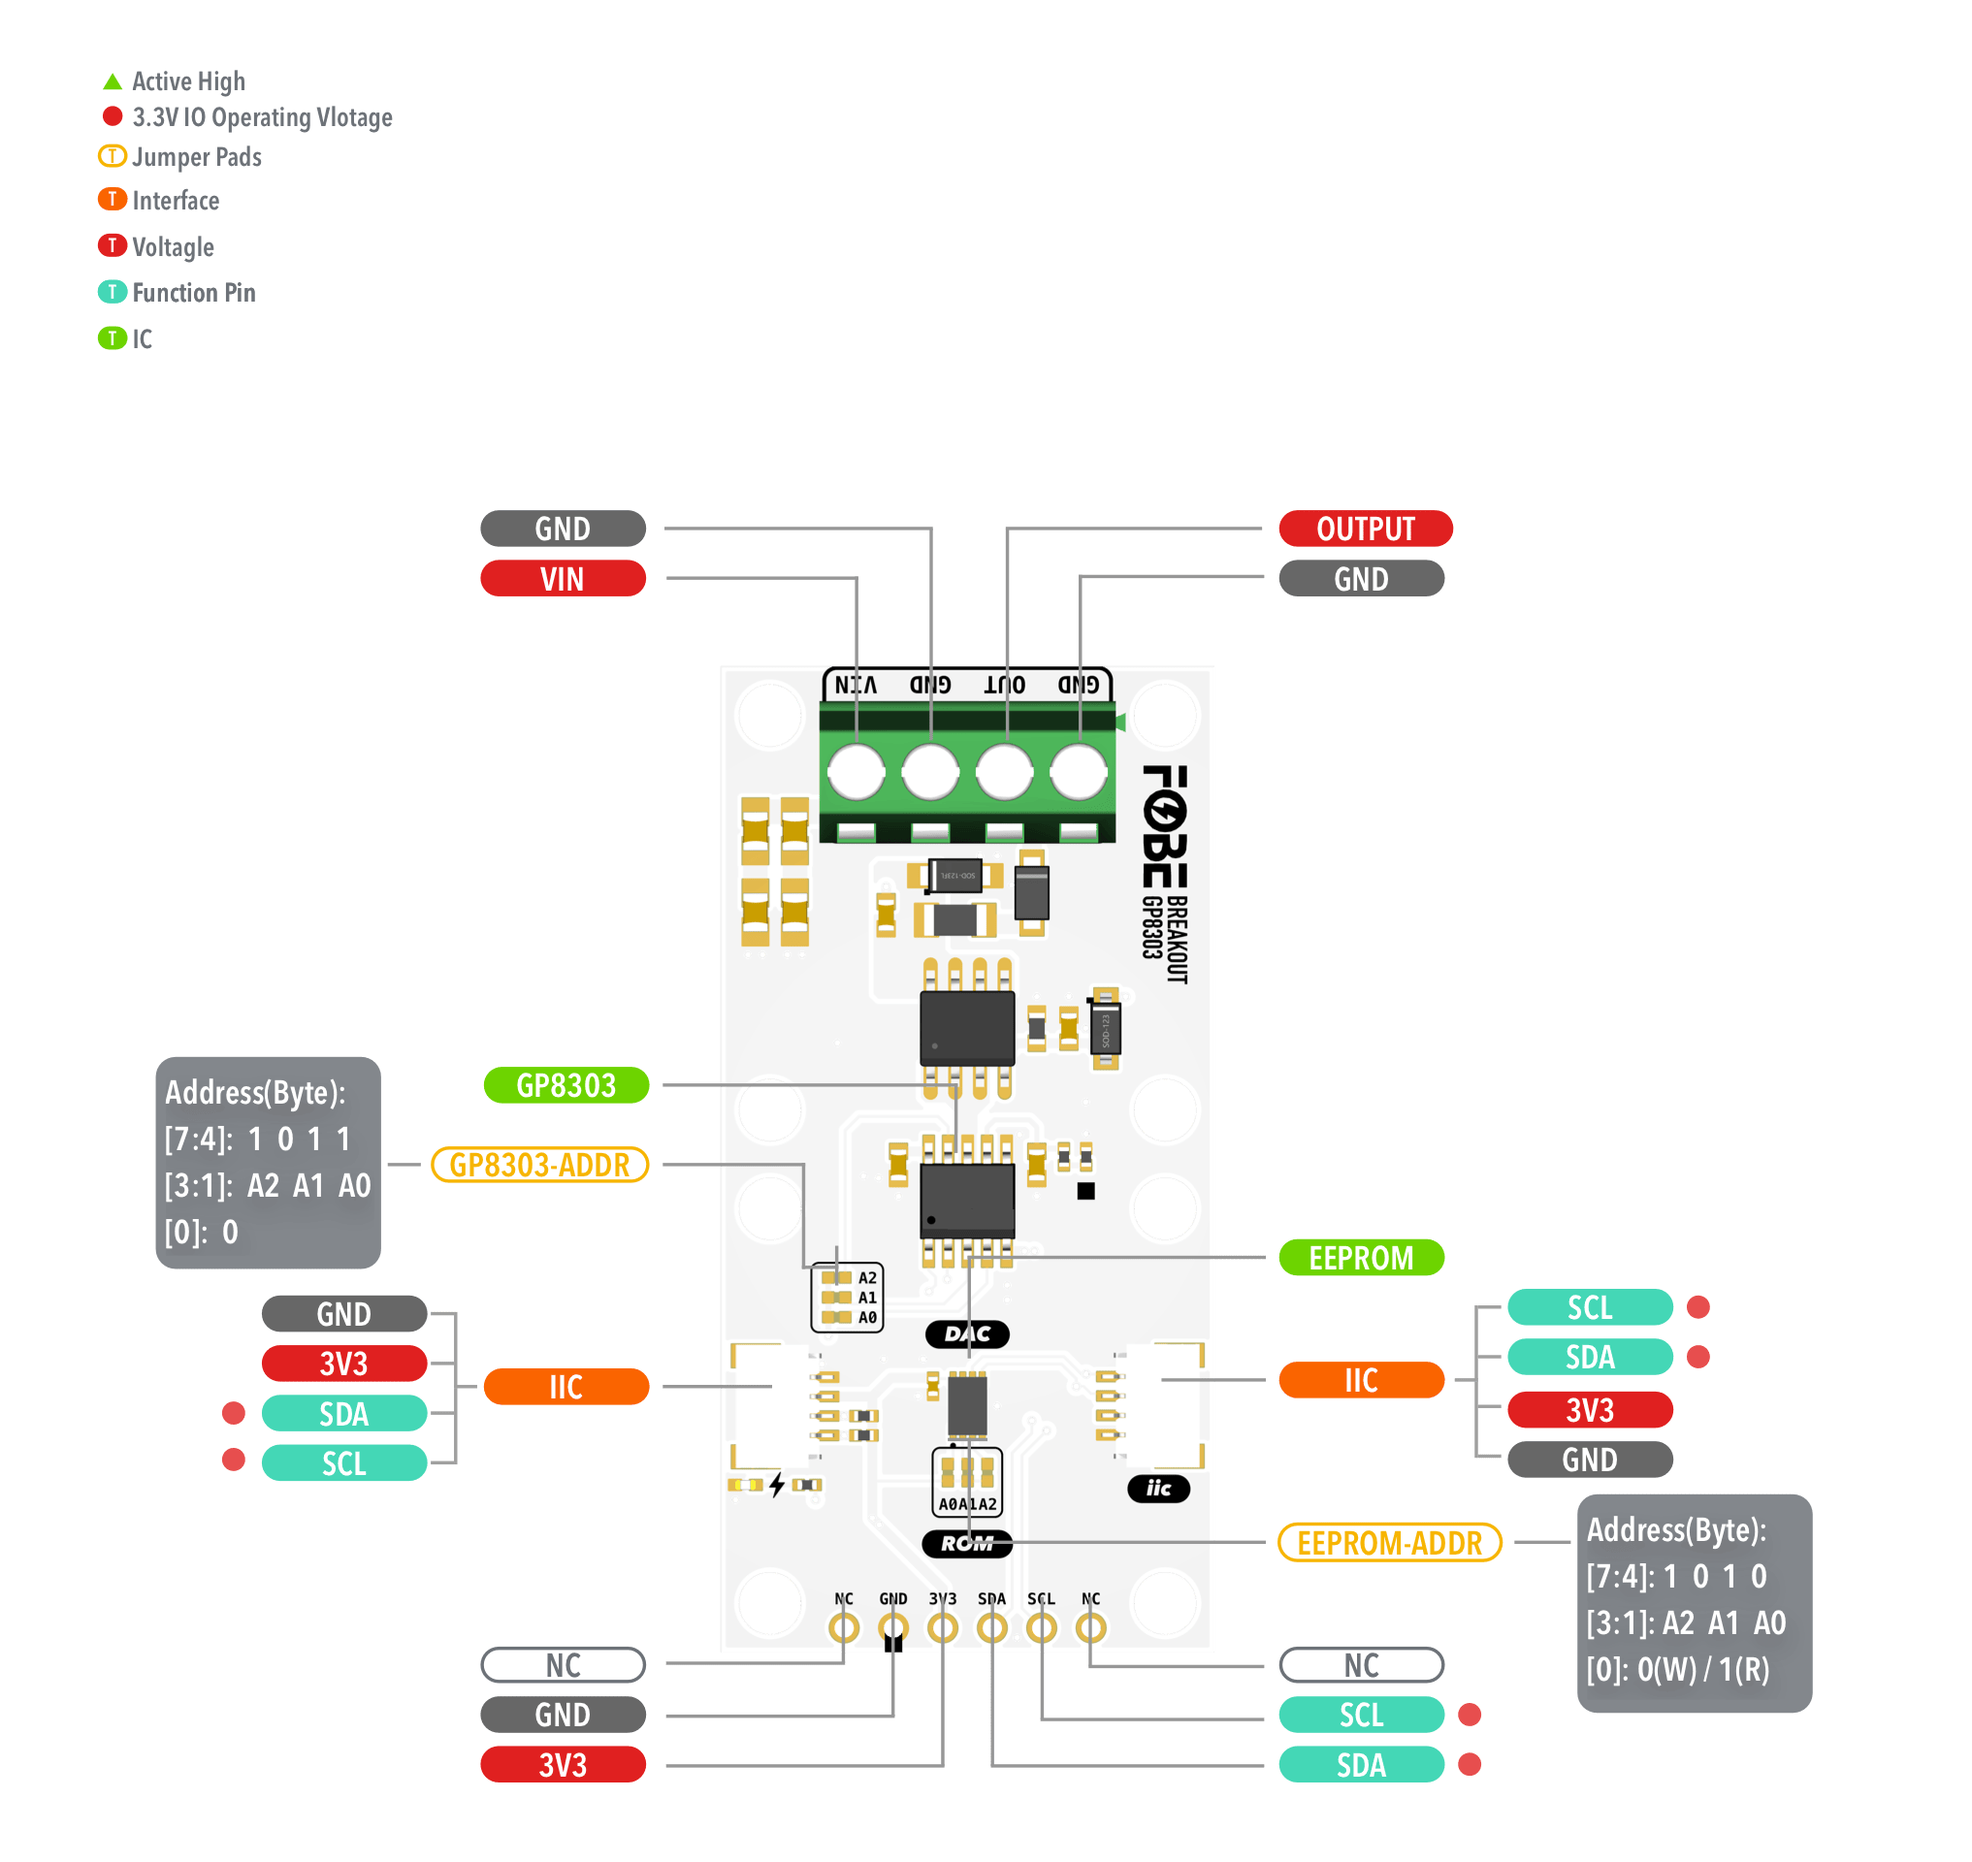
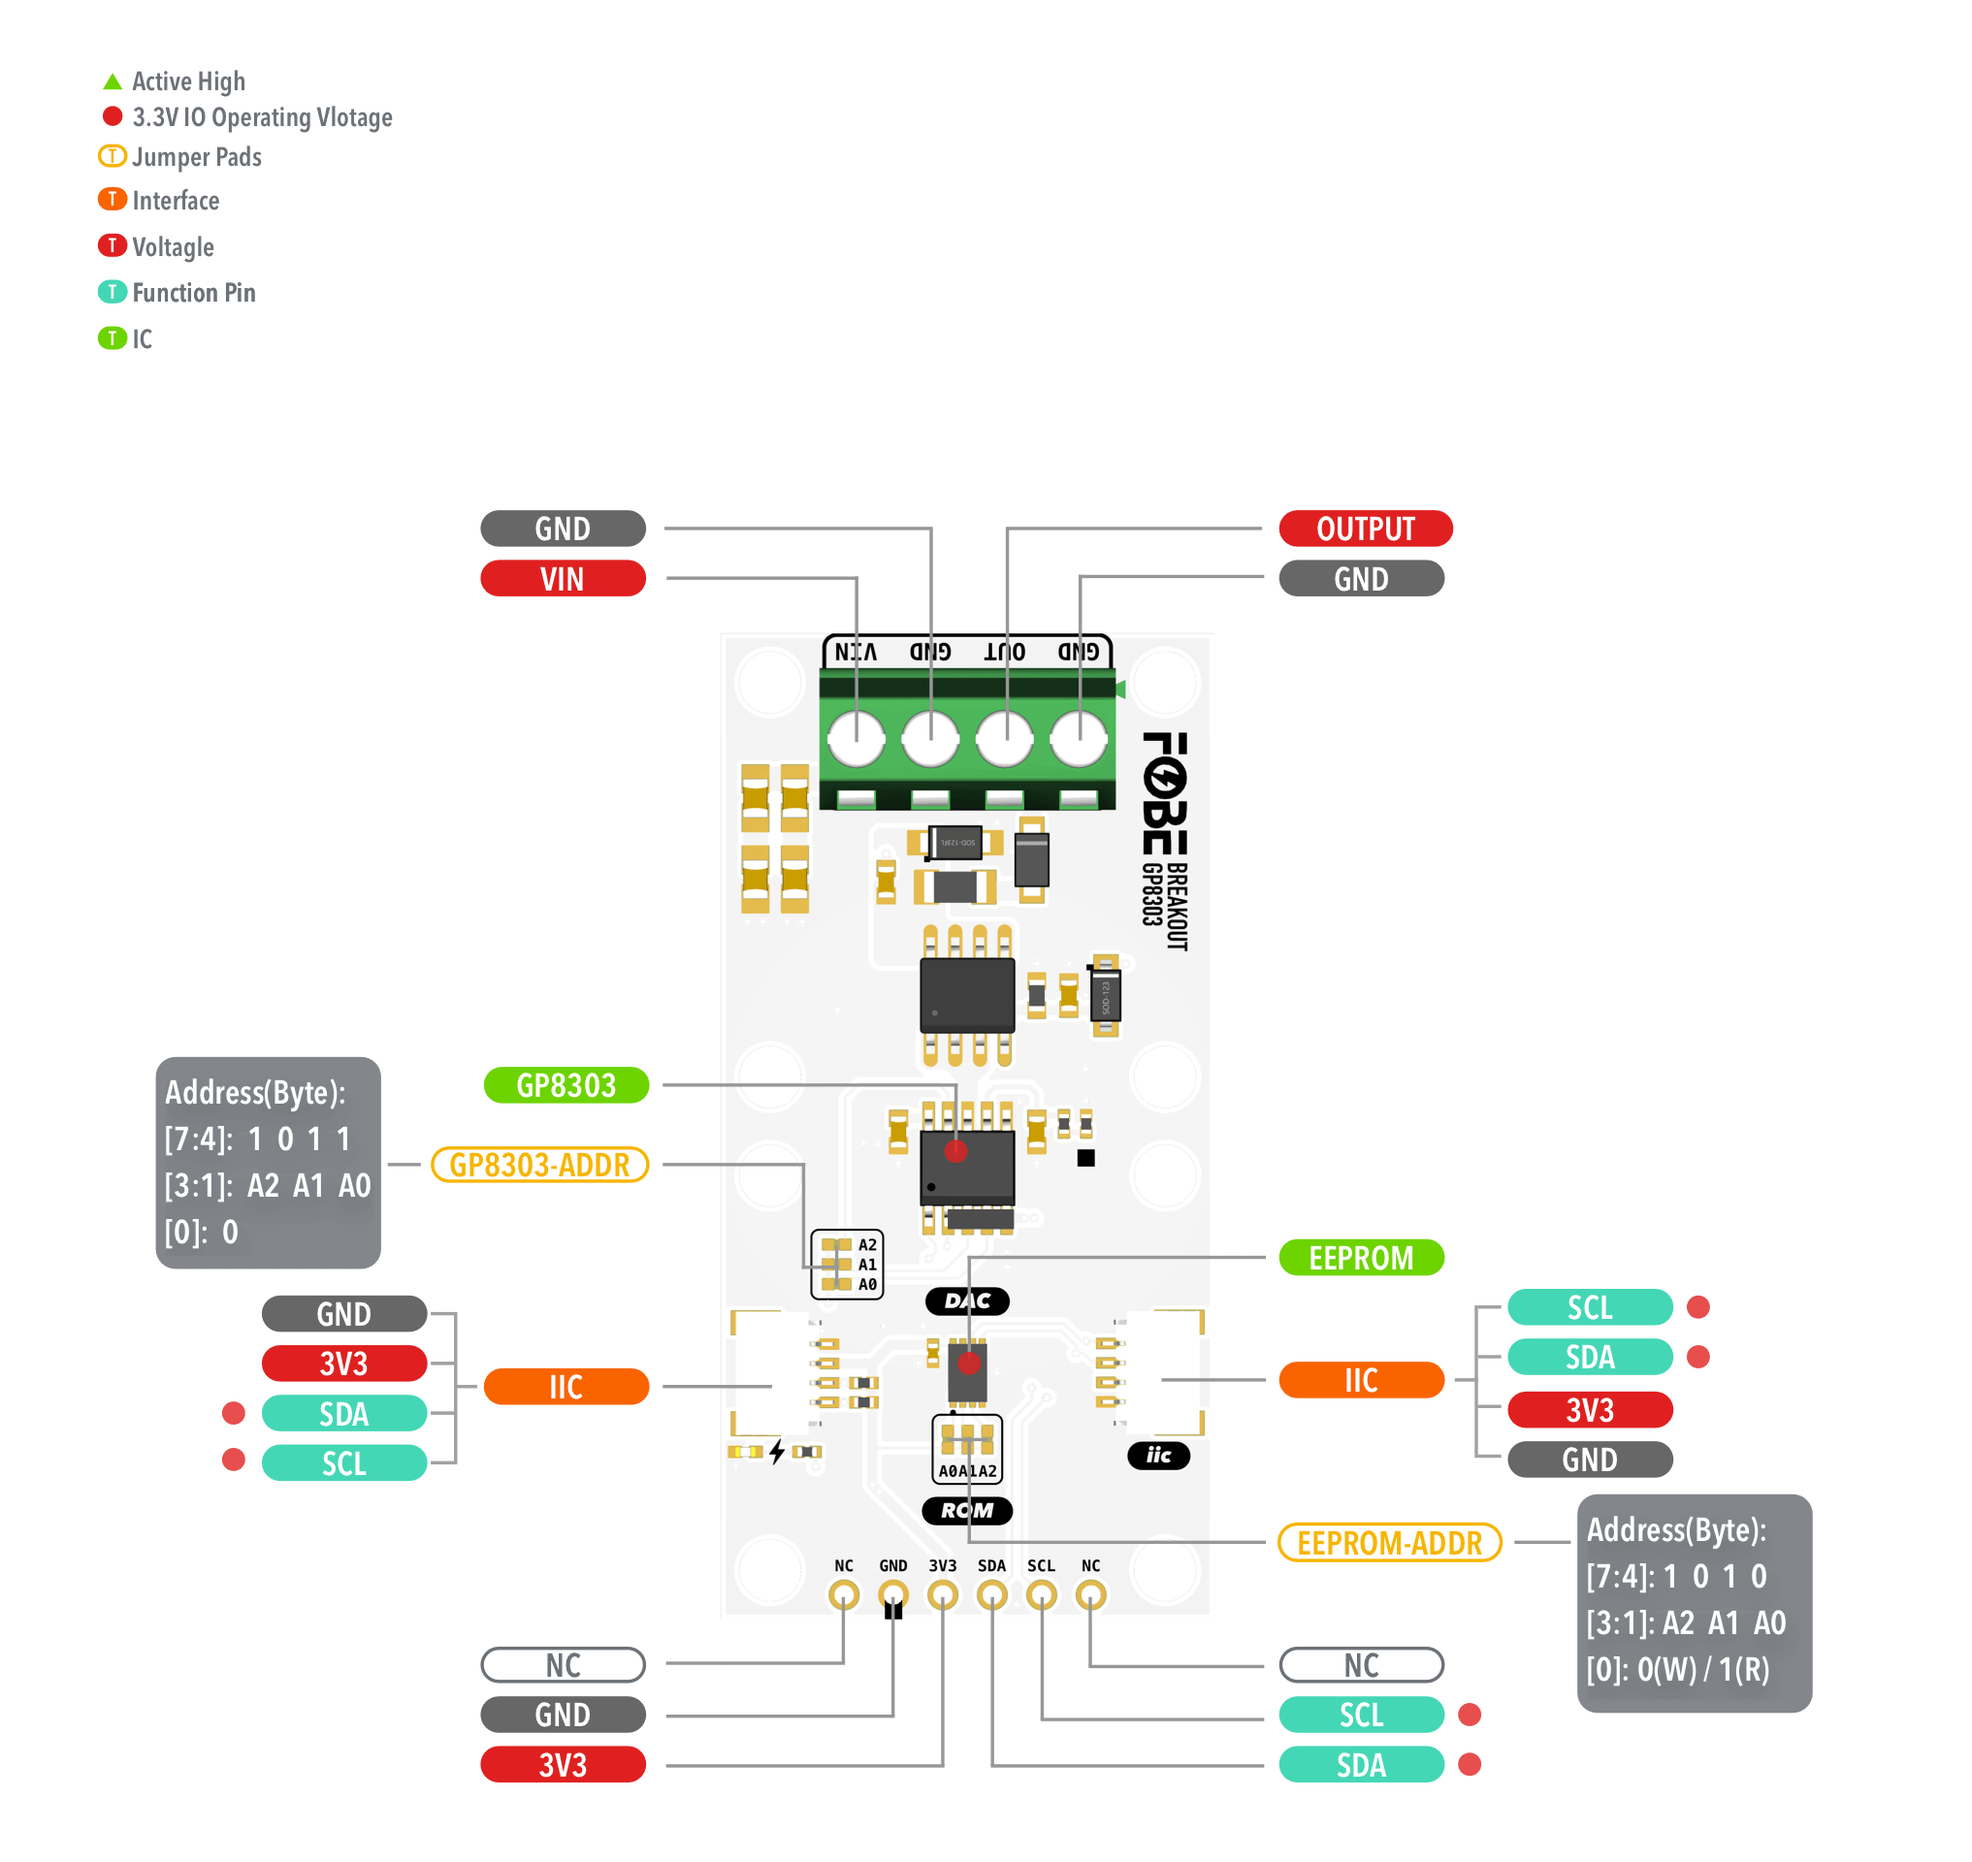
feat: Update F2206/ F2209 document.

Changed region(s): [[0.3719, 0.3438, 0.6198, 0.9062], [0.5578, 0.7188, 0.6198, 0.8125]]

diff --git a/sidebars.js b/sidebars.js
@@ -199,7 +199,7 @@ module.exports = {
         },
         {
           type: "category",
-          label: "Breakout GP8303 (X)",
+          label: "Breakout GP8303",
           link: { type: "doc", id: "product/f2209/index" },
           items: ["product/f2209/quickstart", "product/f2209/resources"],
         },
